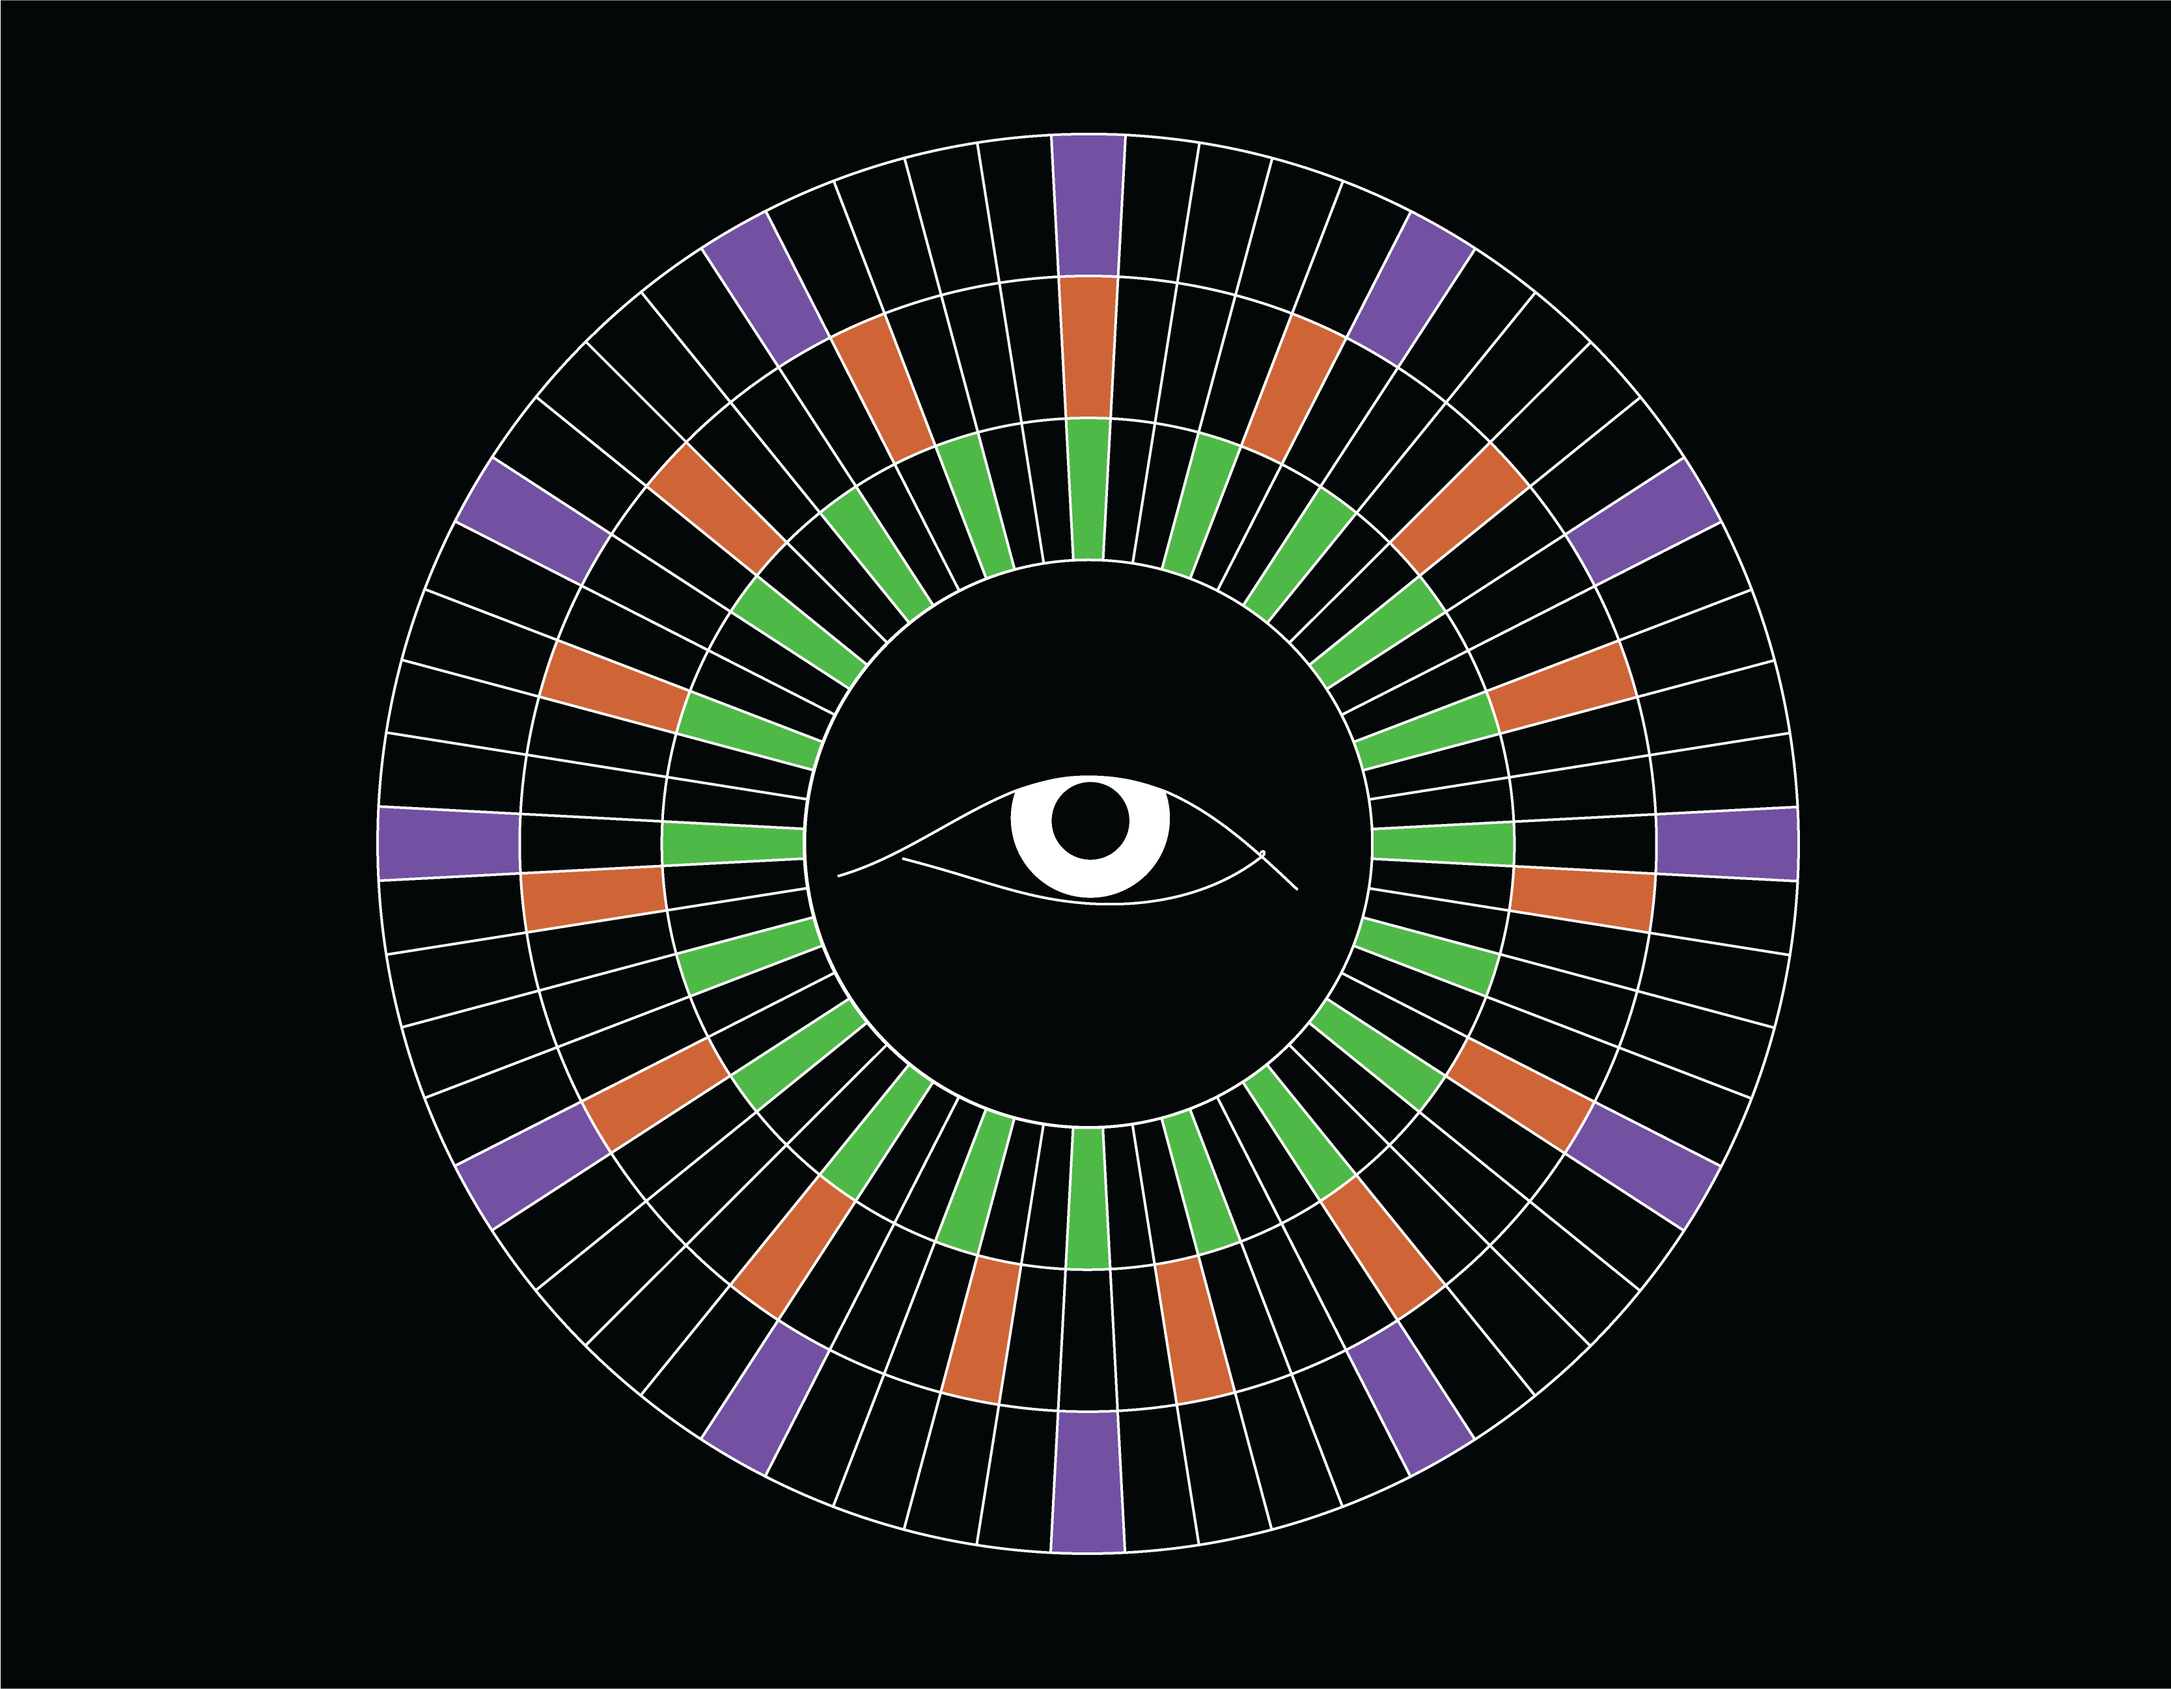
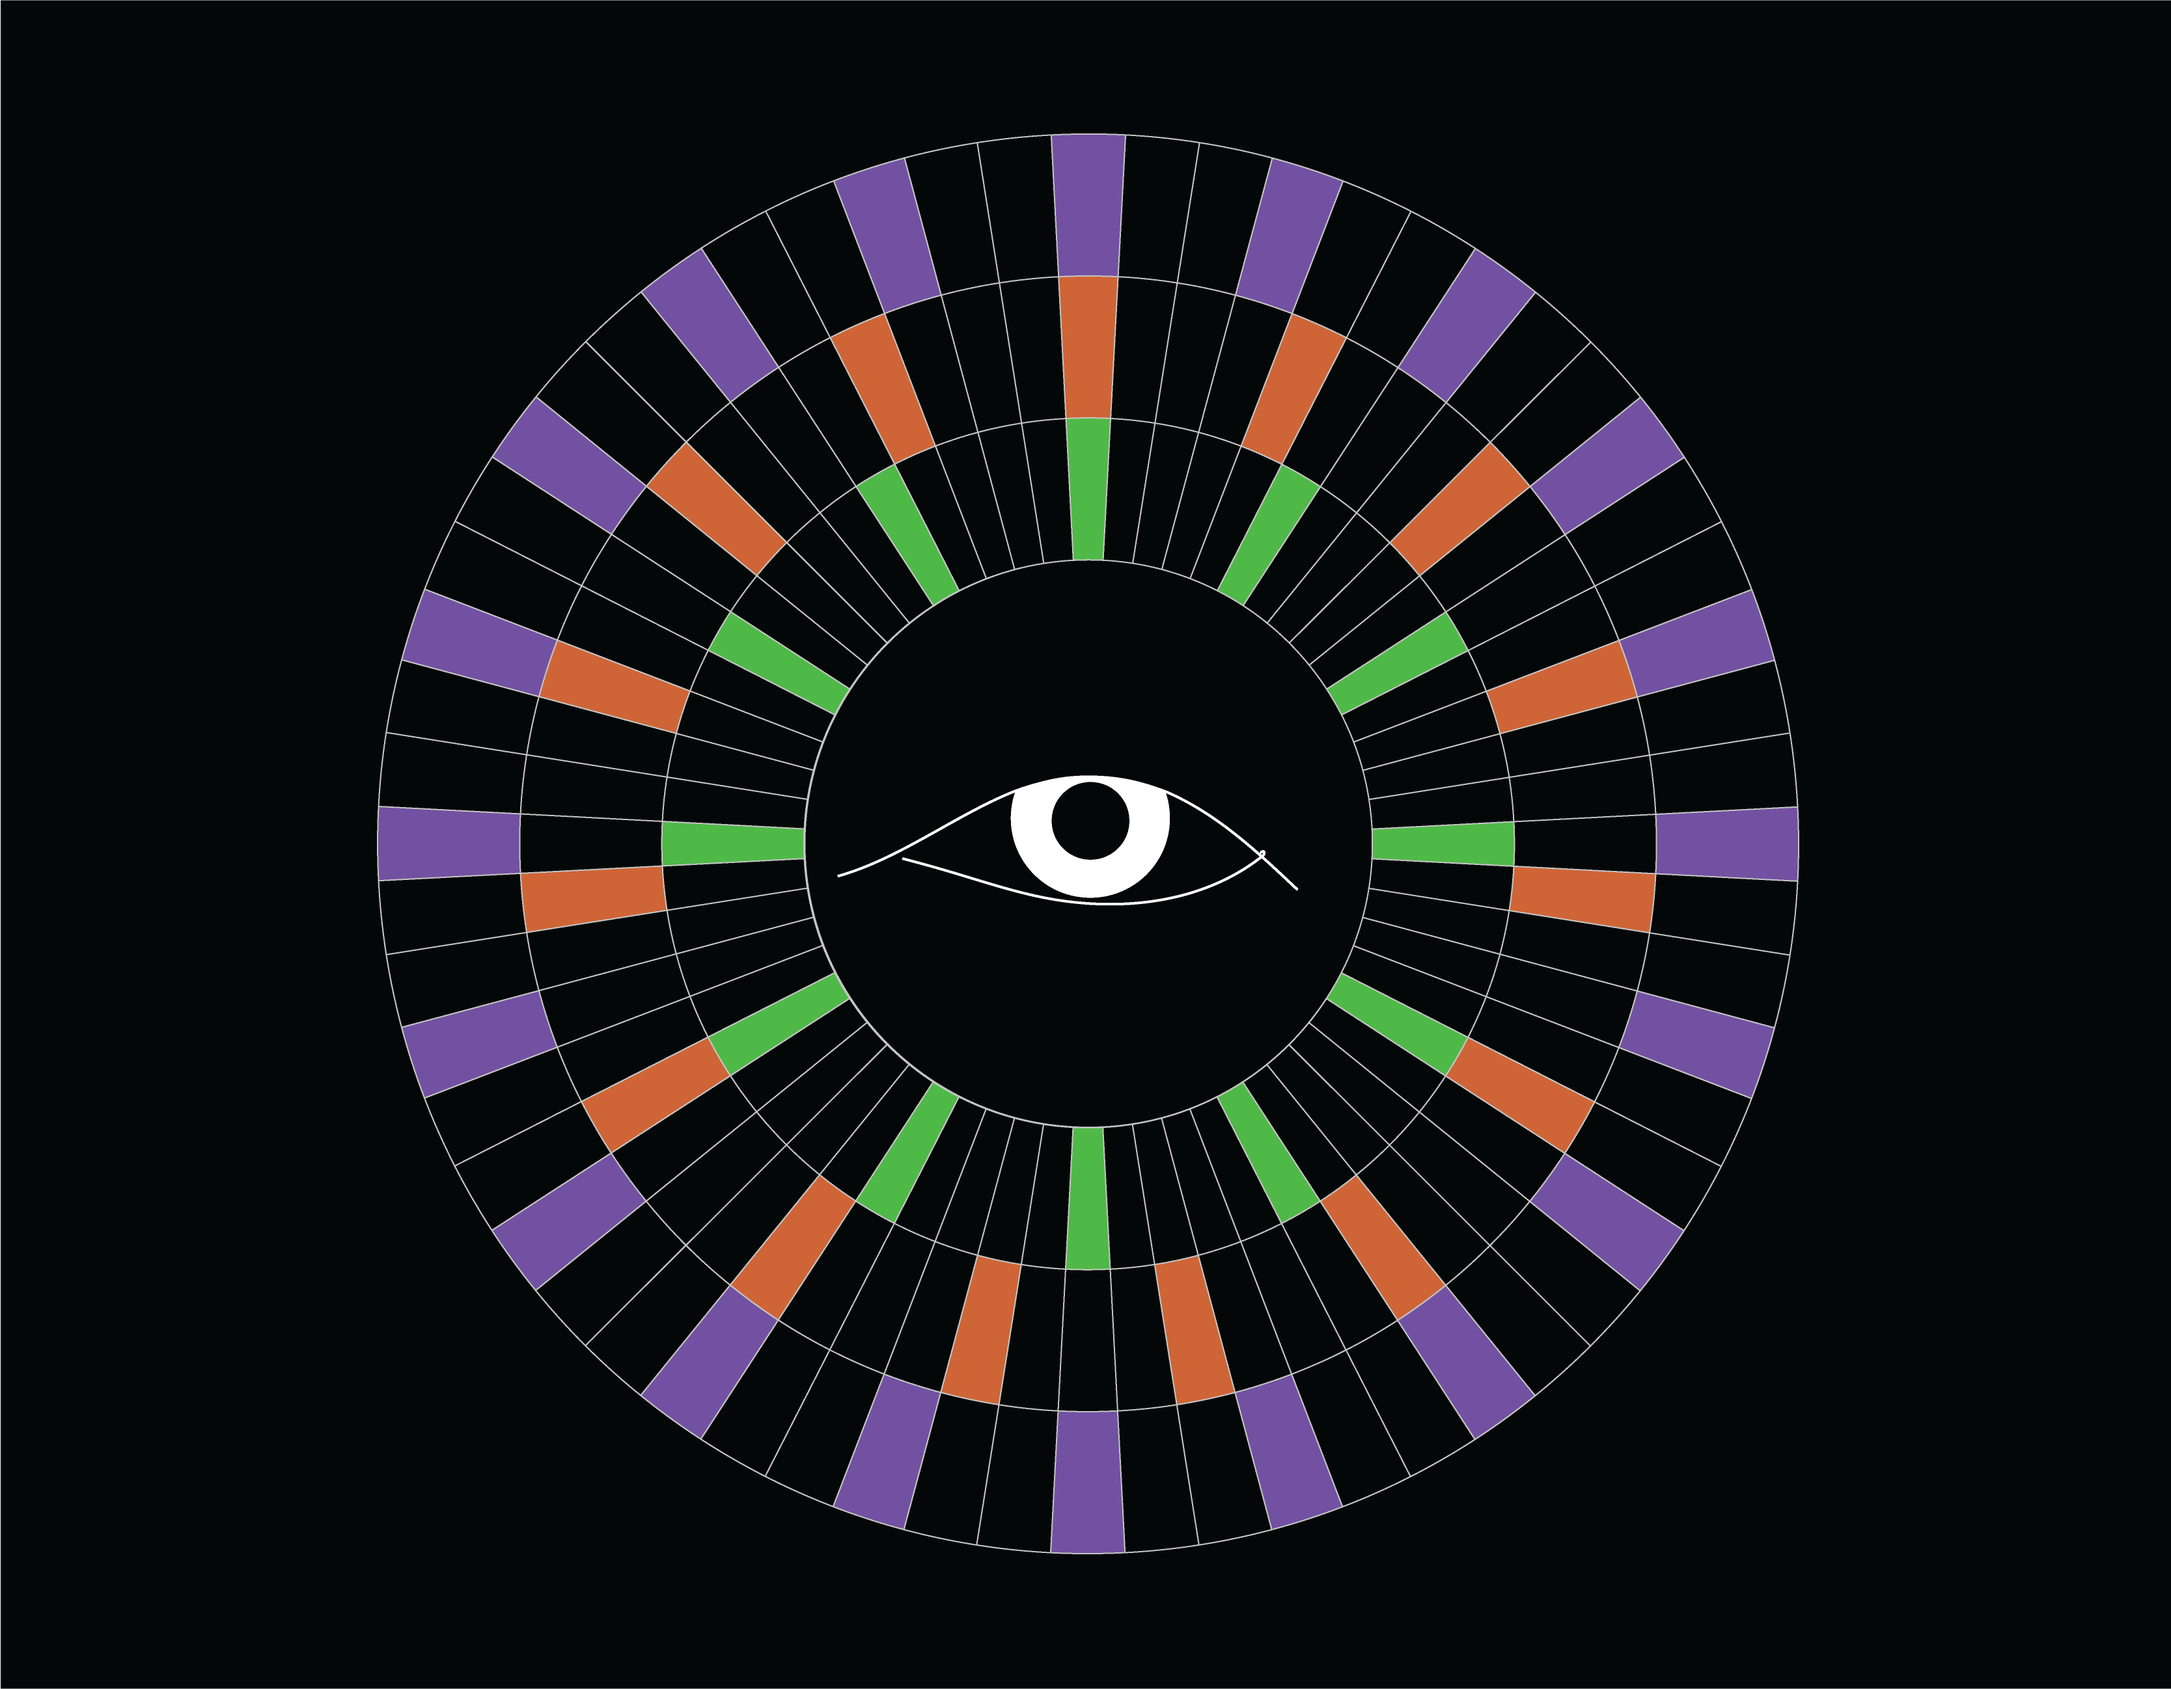
prism of everything

diff --git a/resources/public/prism.html b/resources/public/prism.html
@@ -4,12 +4,13 @@
 <meta charset="UTF-8">
 <meta name="viewport" content="width=device-width, initial-scale=1">
 <link rel="stylesheet" href="https://www.w3schools.com/w3css/4/w3.css">
+<link rel="stylesheet" href="css/prismofeverything.css">
 <link rel="stylesheet" href="https://fonts.googleapis.com/css?family=Raleway">
 <style>
 body,h1 {font-family: "Raleway", sans-serif}
 body, html {height: 100%}
 .bgimg {
-    background-image: url('img/prismofeverything-grey.png');
+    background-image: url('img/prismofeverything.png');
     min-height: 100%;
     background-position: center;
     background-size: cover;
@@ -22,11 +23,11 @@ body, html {height: 100%}
   <!--   Logo -->
   <!-- </div> -->
   <div class="w3-display-top">
-    <h1 class="w3-jumbo w3-center w3-animate-top">PRISM OF EVERYTHING</h1>
+    <h1 class="w3-jumbo w3-center w3-animate-top prism-over prism-title">PRISM OF EVERYTHING</h1>
     <!-- <hr class="w3-border-grey" style="margin:auto;width:40%"> -->
   </div>
   <div class="w3-display-bottom">
-    <p class="w3-large w3-bottom w3-center">The Prism of Everything is a living rhythmic fabric that is always present. Through its churning cycle it generates everything we know and everything unknown. In one end enters the Essence, the perfect emptiness, and out the other spins a kaleidoscope of all creation. We are shards in its great wheel, and we reflect the light that emanates from its core. Through it we are all united as the leaves on a vast tree. A tree of pure energy and potential and fountain of raw creation. You are unavoidably immersed in its power, inseparable from the spinning features surrounding you. Dissolve, and feel your essence merge with its original source. Become the Prism of Everything, and feel creation flow from you.</p>
+    <p class="w3-large prism-over prism-body">The Prism of Everything is a living rhythmic fabric that is always present. Through its churning cycle it generates everything we know and everything unknown. In one end enters the Essence, the perfect emptiness, and out the other spins a kaleidoscope of all creation. We are shards in its great wheel, and we reflect the light that emanates from its core. Through it we are all united as the leaves on a vast tree. A tree of pure energy and potential and fountain of raw creation. You are unavoidably immersed in its power, inseparable from the spinning features surrounding you. Dissolve, and feel your essence merge with its original source. Become the Prism of Everything, and feel creation flow from you.</p>
   </div>
 </div>
 

diff --git a/resources/public/css/prismofeverything.css b/resources/public/css/prismofeverything.css
@@ -1,0 +1,27 @@
+.prism-over {
+    position: fixed;
+    margin: 0% auto; /* Will not center vertically and won't work in IE6/7. */
+    left: 0;
+    right: 0;
+}
+
+.prism-title {
+    color: #aaaaff;
+    text-align: center;
+    /* width: 64%; */
+    top: 0;
+}
+
+.prism-body {
+    color: #aaffaa;
+    text-align: center;
+    width: 64%;
+    bottom: 0;
+
+    /* position: fixed; */
+    /* width: 64%; */
+    /* margin: 5% auto; /\* Will not center vertically and won't work in IE6/7. *\/ */
+    /* left: 0; */
+    /* right: 0; */
+}
+
